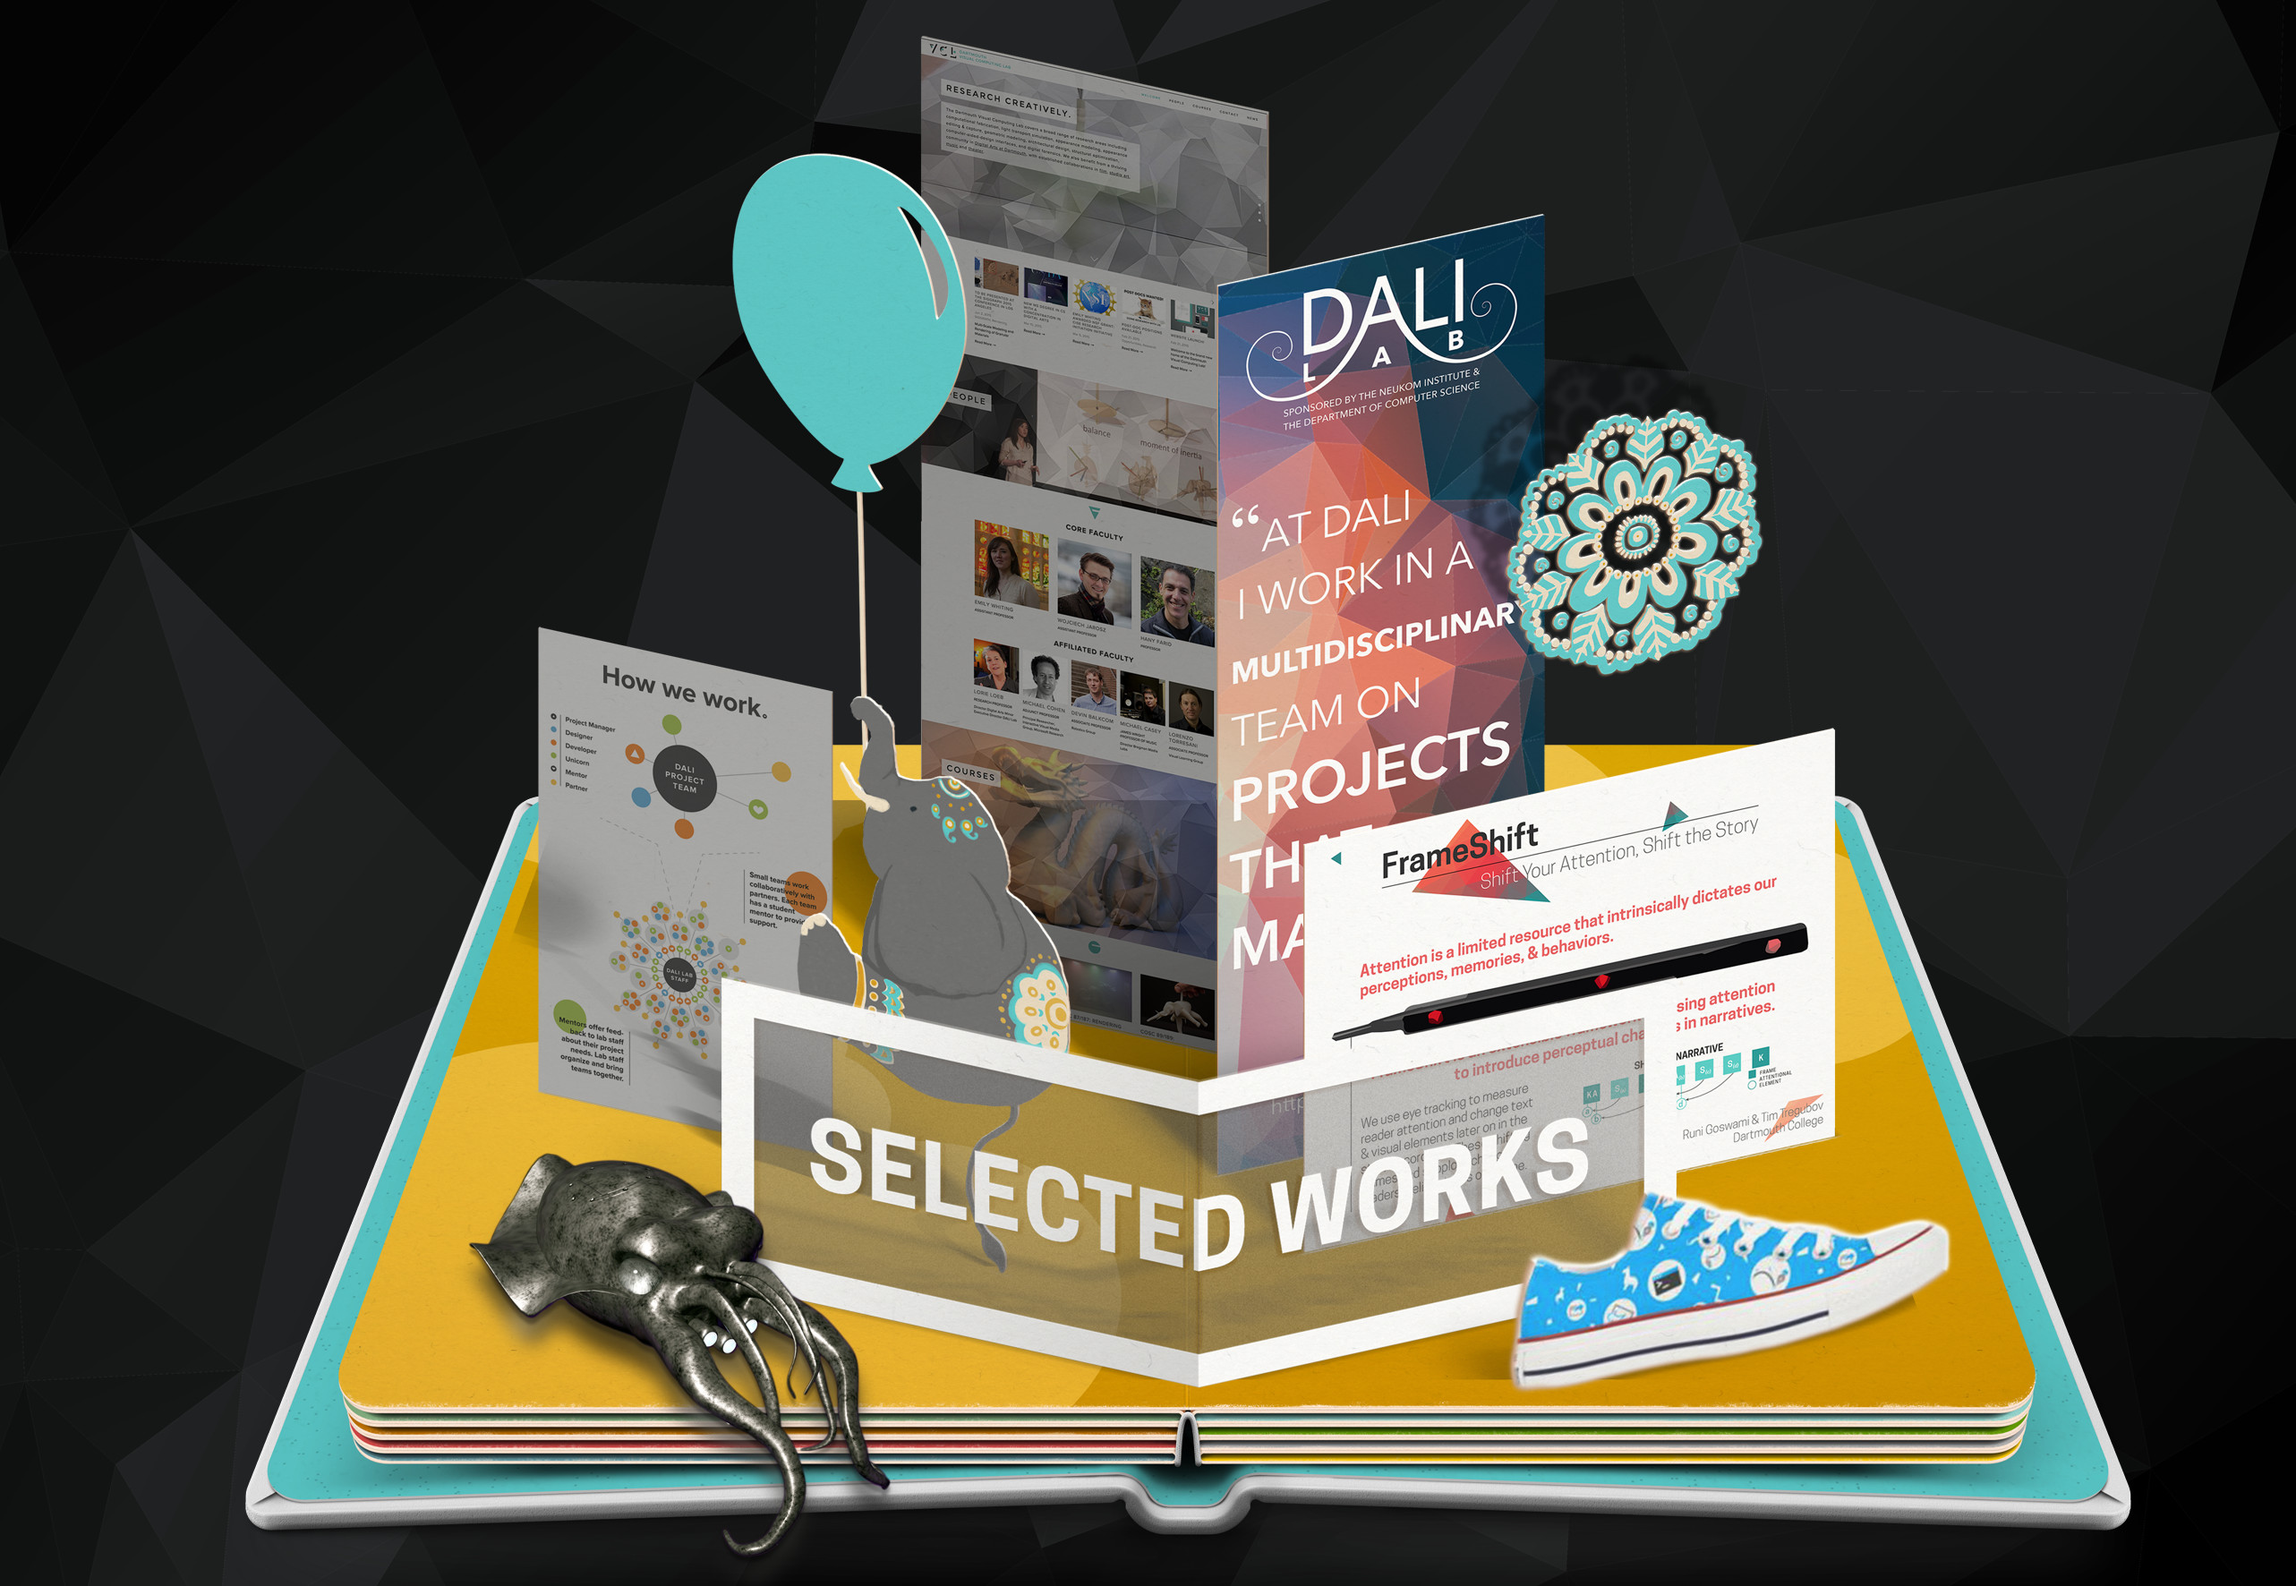
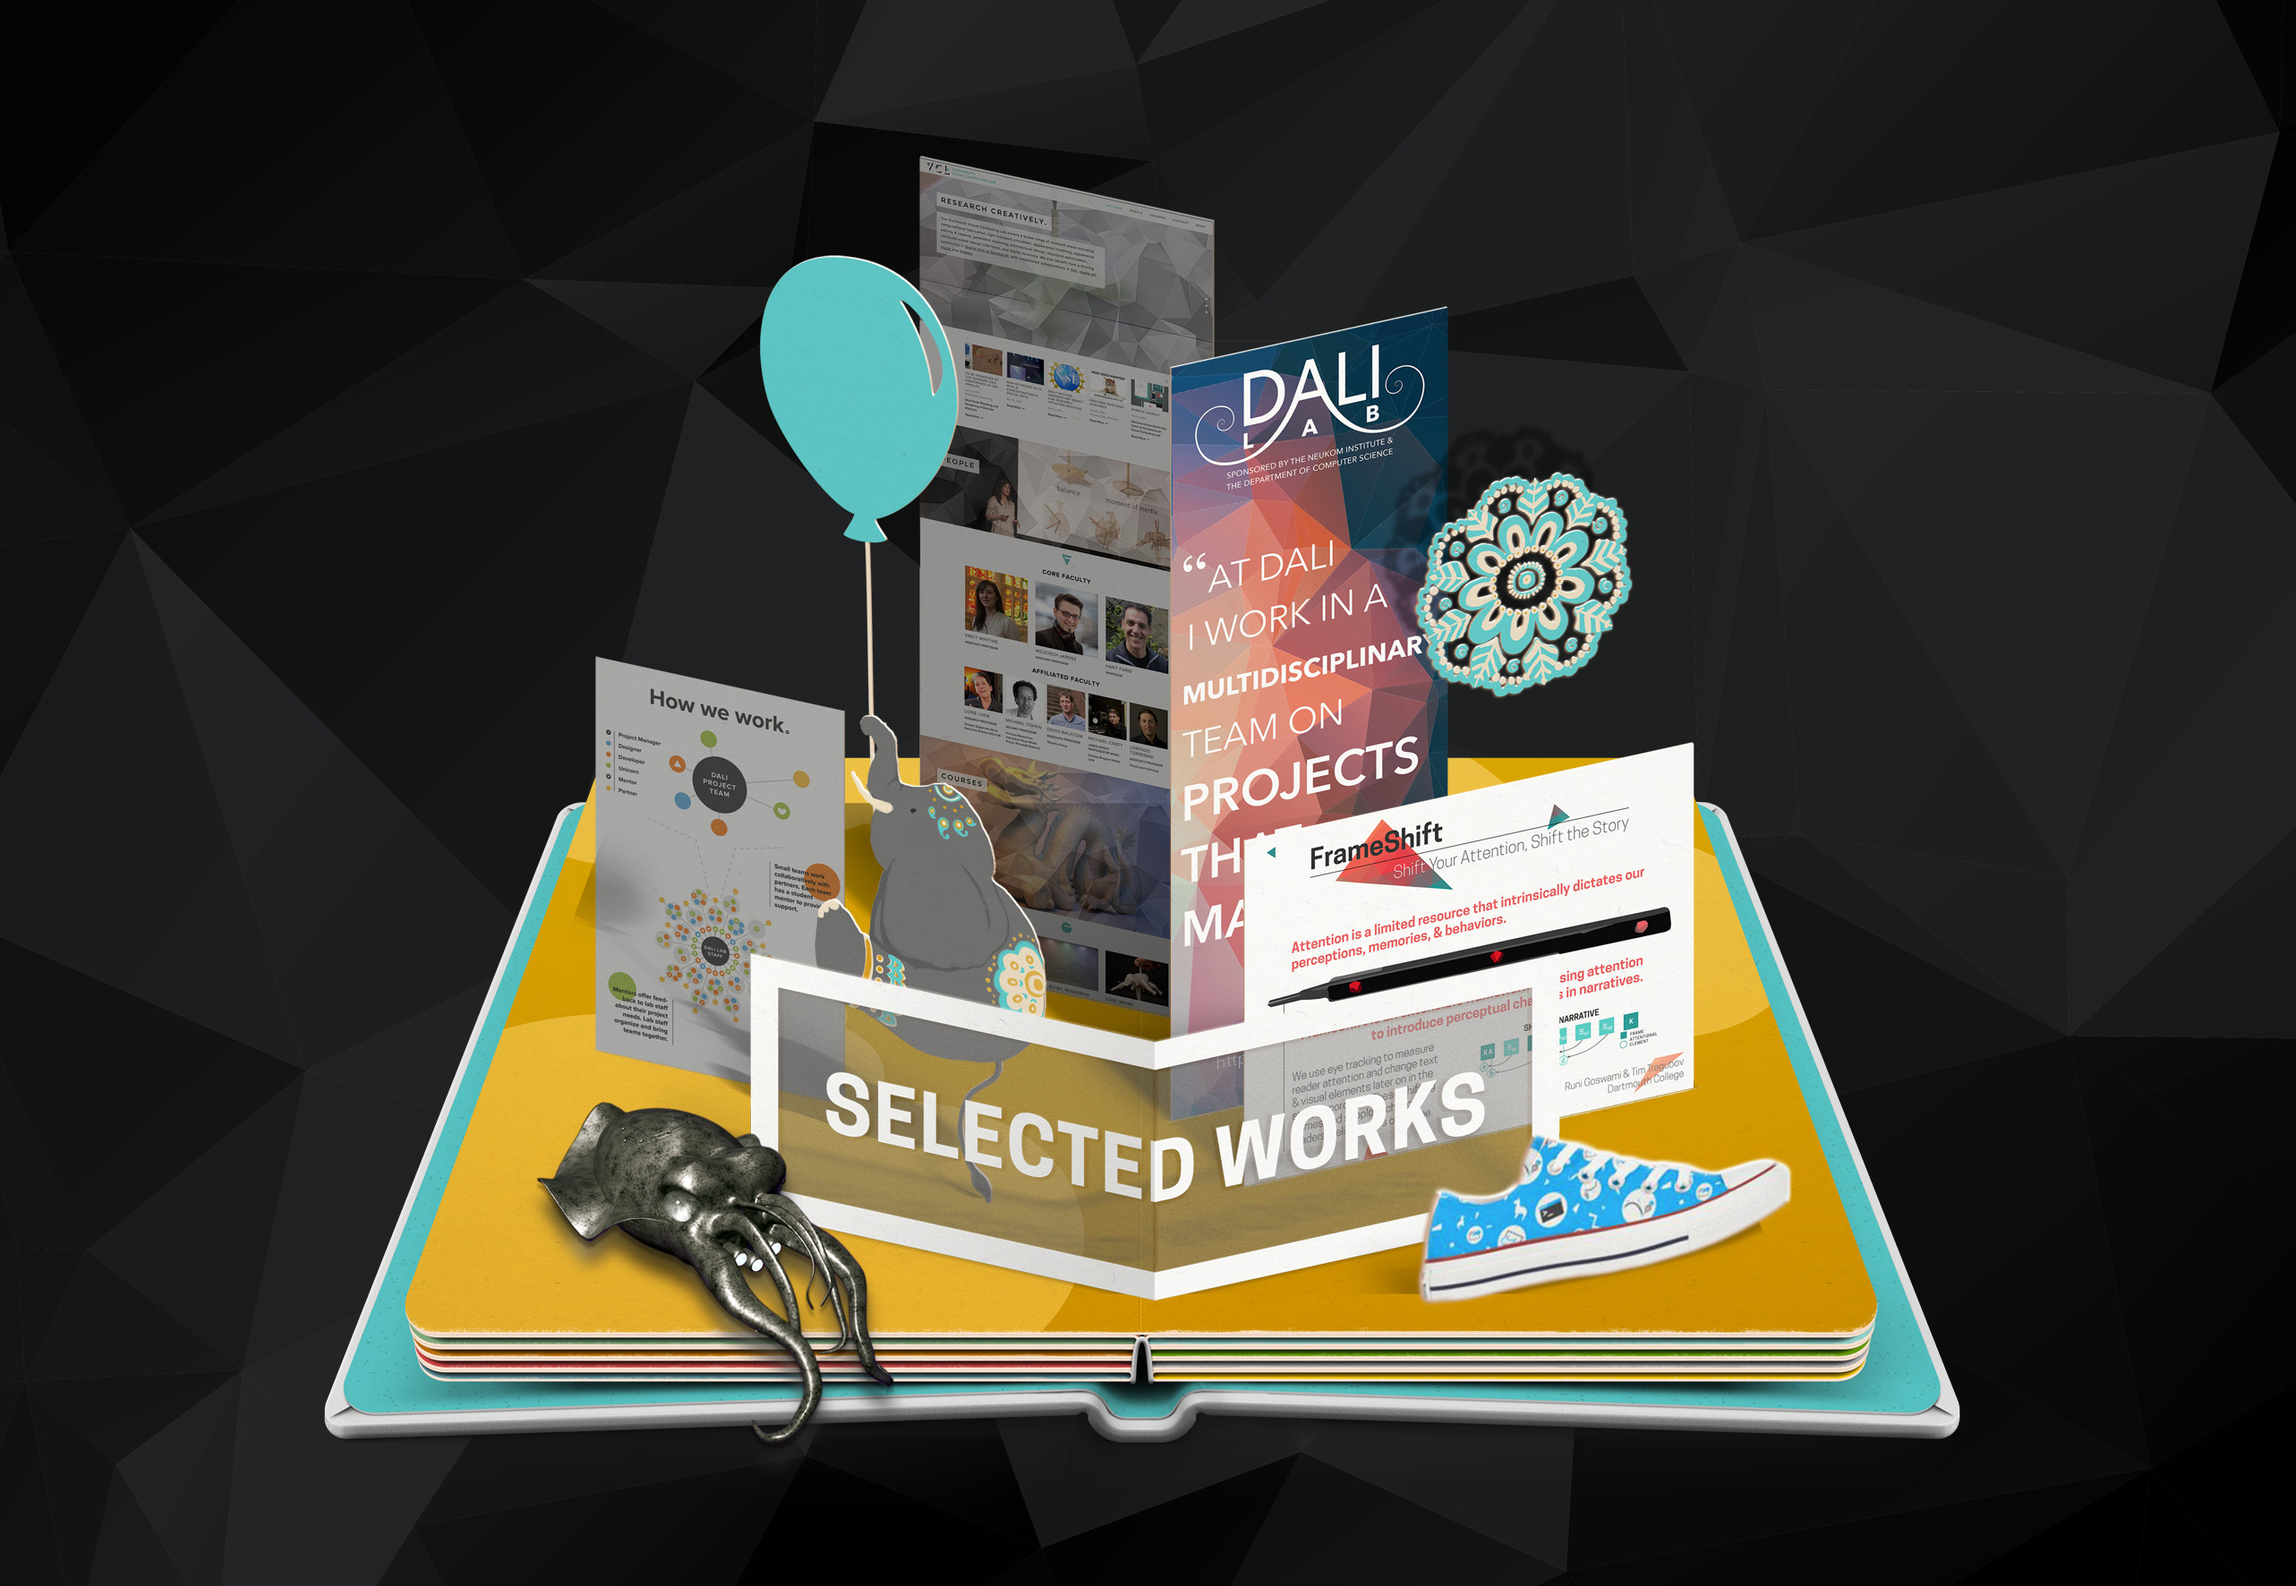
adding vibrancy to works

diff --git a/css/works.css b/css/works.css
@@ -105,7 +105,7 @@ Navbar Styling
   bottom: 0;
   height: 4px;
   width: 0;
-  background: #f7c235;
+  background: #e45729;
   -webkit-transition: width .25s;
   -moz-transition: width .25s;
   -ms-transition: width .25s;
@@ -116,7 +116,7 @@ Navbar Styling
   display: none;
 }
 #navi ul li.active a {
-  color: #f7c235;
+  color: #e45729;
 }
 #navi ul li.active a:before {
   width: 100%;
@@ -173,7 +173,7 @@ h1, h2, h3 {
 }
 
 #works .baselayer {
-  background-image: url('../img/workshead.jpg');
+  background-image: url('../img/vibrantworks.jpg');
 }
 #works .covercontainer {
   position: absolute;

diff --git a/works.html b/works.html
@@ -49,7 +49,7 @@
     </nav>
 
     <section id="works" class="cover">
-      <div class="baselayer" data-center="background-position: 50% -150px;" data-top-bottom="background-position: 50% -350px;" data-anchor-target="#works">
+      <div class="baselayer" data-center="background-position: 50% -200px;" data-top-bottom="background-position: 50% -500px;" data-anchor-target="#works">
         <div class="covercontainer">
           <div class="frame" class="center"></div>
         </div>

diff --git a/js/main.js b/js/main.js
@@ -48,7 +48,7 @@
     var halfWindowHeight = winH - (winH / 2);
     var onethirdsHeight = (winH) / 3;
     $('#cover-1').height(2*onethirdsHeight);
-    // $('#works').height(.9*winH);
+    $('#works').height(.9*winH);
     // $('#cover-2').height(2*onethirdsHeight);
     // $('#cover-1 .covercontainer').height(twothirdsHeight);
     // $('#cover-1 .handscontainer').height(twothirdsHeight);
